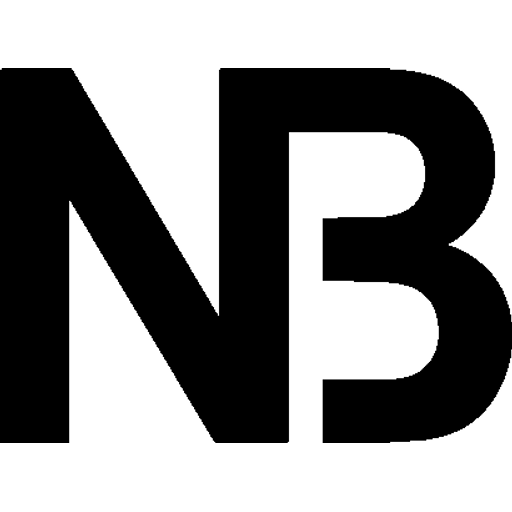
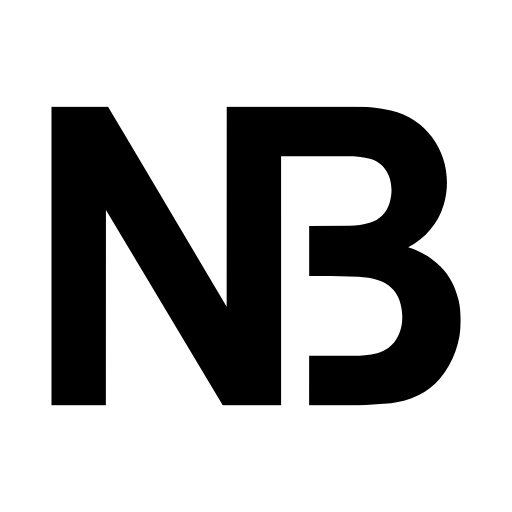
update

diff --git a/src/components/features/home/home-brand-story-section.tsx b/src/components/features/home/home-brand-story-section.tsx
@@ -8,7 +8,7 @@ import { resolveImageAlt } from "@/lib/image-alt";
 import { layoutHomeStoryContent } from "@/lib/seo-content/home-story-layout";
 
 /** Bump when replacing public/images/home/home-story-burger.webp */
-const HOME_STORY_IMAGE_VERSION = "20260803c";
+const HOME_STORY_IMAGE_VERSION = "20260803d";
 const HOME_STORY_IMAGE_URL = `${HOME_STORY_IMAGE}?v=${HOME_STORY_IMAGE_VERSION}`;
 
 export async function HomeBrandStorySection() {
@@ -35,8 +35,8 @@ export async function HomeBrandStorySection() {
           <Image
             src={HOME_STORY_IMAGE_URL}
             alt={imageAlt}
-            width={1024}
-            height={787}
+            width={900}
+            height={900}
             sizes="(max-width: 900px) 100vw, 45vw"
             className="home-story-image"
             unoptimized
